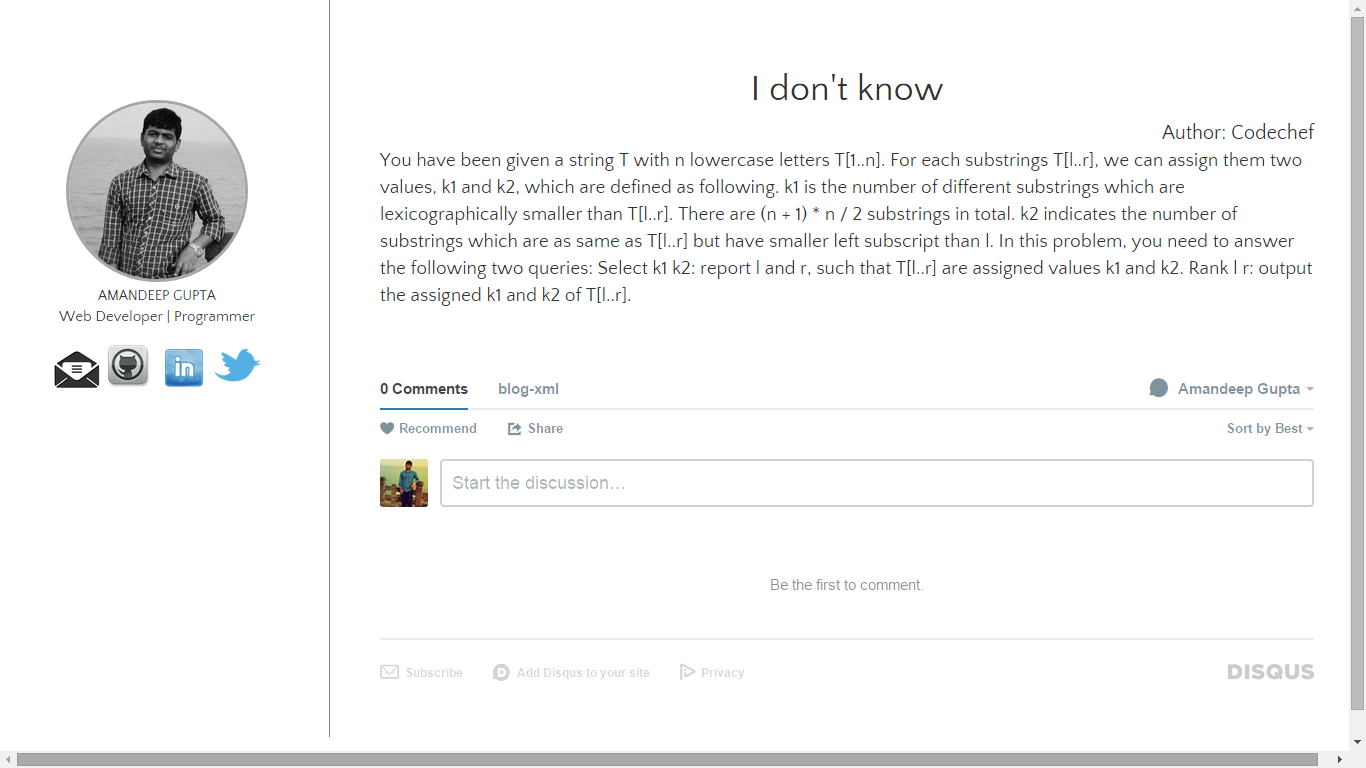
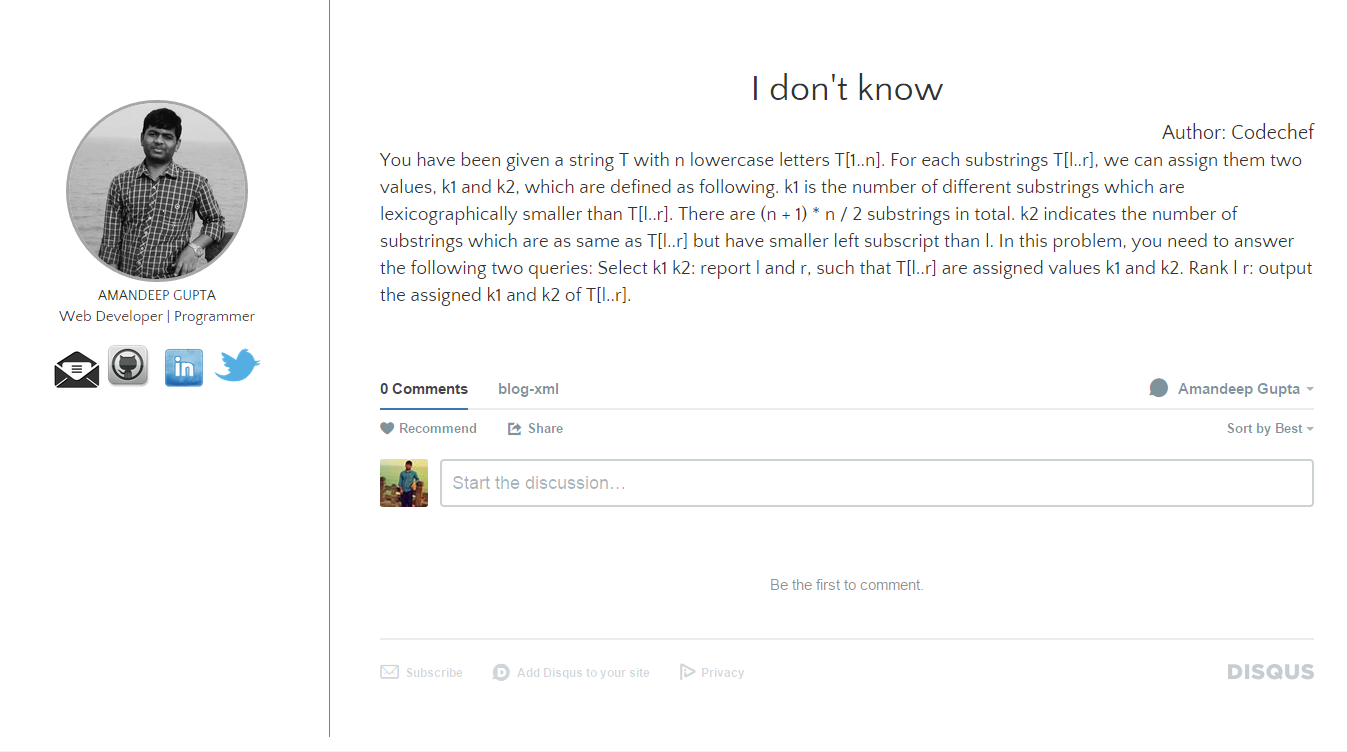
style updated

diff --git a/public/css/style.css b/public/css/style.css
@@ -4,8 +4,8 @@ body {
 }
 
 .blog{
-	height: 96vh;
-
+	height: 91vh;
+	margin-bottom: 0px;
 	padding-bottom: 0px;
 }
 
@@ -27,6 +27,8 @@ body {
 
 #secondary_section {
 	padding: 50px;
+	height: 105%;
+	overflow-y: scroll;
 }
 
 #inner_text > #b_author{
@@ -41,7 +43,7 @@ body {
 #profile_description {
 	padding-top: 100px;
 	border-right: 1px solid grey;
-	height: 100%;
+	height: 105%;
 }
 
 #profile_description  #profile_pic {
@@ -63,7 +65,7 @@ body {
 	margin-top:0.3em;
 	margin-left: auto;
 	margin-right: auto;
-	border-bottom: 1px solid white; 
+	border-bottom: 1px solid grey; 
 }
 
 #profile_description #social_link img{
